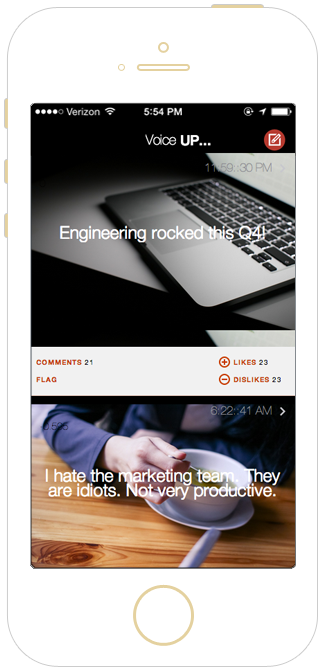
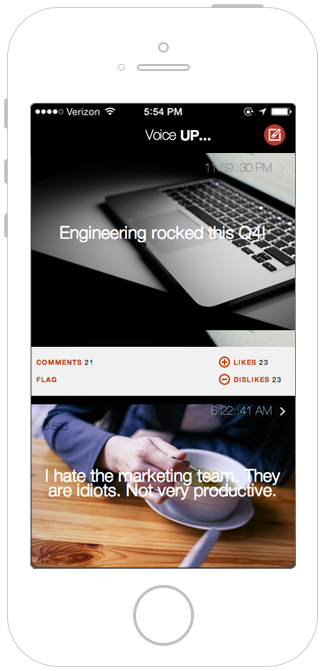
Draft commit v0.8

diff --git a/index.html b/index.html
@@ -35,7 +35,7 @@
           <div class="masthead clearfix">
             <div class="inner">
               <h3 class="masthead-brand">
-              	<img src="img/voiceup-logo.png">
+              	<img src="img/voiceup-logo-red.png">
               </h3>
               <ul class="nav masthead-nav none">
                 <li class="active"><a href="#">Home</a></li>
@@ -51,23 +51,44 @@
             
 	            <div class="col-lg-6 col-md-6 col-sm-6 col-xs-12">
 	            	<div class="preview">
-	            		<img src="img/voiceup-mockup.png">
+	            		<img src="img/voiceup-mockup-5s.png">
 	            	</div>
 	        	</div>
 	        	<div class="col-lg-6 col-md-6 col-sm-6 col-xs-12">
 		        	<h1 class="cover-heading">Anonymous honest feedback in the workplace</h1>
-		            <p class="lead">Cover is a one-page template for building simple and beautiful home pages. Download, edit the text, and add your own fullscreen background photo to make it your own.</p>
-		            <p class="lead">
-
-		            	<a href="#" class="btn btn-lg btn-outline" role="button">Sign Up</a>
-		            </p>
+		        	<br>
+		        	<div class="clear"></div>
+		        	<div class="col-lg-6 col-md-6 col-sm-6 col-xs-12">
+		        		<img src="img/icon_lock_alt.png">
+		            	<p class="lead">It's Safe and Secure. </p>
+		        	</div>
+		        	<div class="col-lg-6 col-md-6 col-sm-6 col-xs-12">
+		            	<img src="img/icon_lightbulb_alt.png">
+		            	<p class="lead">Suggest Improvements. </p>
+		        	</div>
+		        	<div class="col-lg-6 col-md-6 col-sm-6 col-xs-12">
+		            	<img src="img/icon_rook.png">
+		            	<p class="lead">Pros & Cons of Leadership. </p>
+		        	</div>
+		        	<div class="col-lg-6 col-md-6 col-sm-6 col-xs-12">
+		            	<img src="img/icon_like.png">
+		            	<p class="lead">Hear others. Agree or Disagree? </p>
+		        	</div>
+		        	<div class="clear"></div>
+		            <div class="form">
+		            	<form role="form">
+			            	<input type="email" class="form-control" id="exampleInputEmail1" placeholder="Enter email">
+			            	<br>
+			            	<a href="#" class="btn btn-lg btn-outline" role="button">Sign Up</a>
+		            	</form>
+		            </div>
 	        	</div>
 	        </div>
           </div>
 
-          <div class="mastfoot none">
+          <div class="mastfoot">
             <div class="inner">
-              <p>Cover template for <a href="http://getbootstrap.com">Bootstrap</a>, by <a href="https://twitter.com/mdo">@mdo</a>.</p>
+              <p><a href="#">Terms of Use</a> - <a href="#">Privacy Policy</a> - <a href="mailto:chany2.rpi@gmail.com">Contact Us</a></p>
             </div>
           </div>
 

diff --git a/css/cover.css b/css/cover.css
@@ -6,18 +6,21 @@
 a,
 a:focus,
 a:hover {
-  color: #fff;
+  color: #cc3701;
 }
 
 .none{
   display: none;
+}
+.clear{
+  clear: both;
 }
 
 /* Custom default button */
 .btn-default,
 .btn-default:hover,
 .btn-default:focus {
-  color: #333;
+  color: #fff;
   text-shadow: none; /* Prevent inheritence from `body` */
   background-color: #fff;
   border: 1px solid #fff;
@@ -31,11 +34,15 @@ a:hover {
 html,
 body {
   height: 100%;
-  background-color: #fff;
+  background-color: #19292F;
 }
 body {
-  color: #333;
+  color: #fff;
   text-align: center;
+
+  background:;
+  background-size:cover;
+  background-repeat: no-repeat;
   /*text-shadow: 0 1px 3px rgba(0,0,0,.5);
   box-shadow: inset 0 0 100px rgba(0,0,0,.5);*/
 }
@@ -85,7 +92,7 @@ body {
   padding-left: 0;
   font-size: 16px;
   font-weight: bold;
-  color: #333; /* IE8 proofing */
+  color: #fff; /* IE8 proofing */
   /* color: rgba(255,255,255,.75); */
   border-bottom: 2px solid transparent;
 }
@@ -97,12 +104,17 @@ body {
 .masthead-nav > .active > a,
 .masthead-nav > .active > a:hover,
 .masthead-nav > .active > a:focus {
-  color: #333;
-  border-bottom-color: #333;
+  color: #fff;
+  border-bottom-color: #fff;
 }
 .preview img{
   width:70%;
+  /*position: absolute;*/
 }
+.form{
+  margin: 30px 0;
+}
+
 
 @media (min-width: 768px) {
   .masthead-brand {
@@ -113,7 +125,7 @@ body {
   }
   .masthead-brand img{
     width: 100px;
-    margin: -30px 0px 0 60px;
+    margin: -20px 0px 0 100px;
   }
 }
 
@@ -130,16 +142,26 @@ body {
 
 .cover {
   padding: 0 20px;
-  margin: 150px auto;
+  margin: 125px auto 50px;
 }
 .cover .btn-lg {
   padding: 10px 20px;
-  font-weight: bold;
+  font-weight: normal;
+}
+.form-control{
+  width: 80%;
+  margin: 0 auto;
+  height: 50px;
+  font-size: 20px;
 }
 .btn-outline {
-  color: #cc3701;
+  /*color: #cc3701;
   background-color: transparent;
-  border-color: #cc3701;
+  border-color: #cc3701;*/
+  color: #fff;
+  font-weight: 100;
+  text-decoration: none;
+  background: #cc3701;
 }
 
 /*
@@ -147,8 +169,8 @@ body {
  */
 
 .mastfoot {
-  color: #999; /* IE8 proofing */
-  color: rgba(255,255,255,.5);
+  color: #fff; /* IE8 proofing */
+  color: #fff;
 }
 
 
@@ -163,7 +185,7 @@ body {
     top: 0;
   }
   .mastfoot {
-    position: fixed;
+    /*position: fixed;*/
     bottom: 0;
   }
   /* Start the vertical centering */
